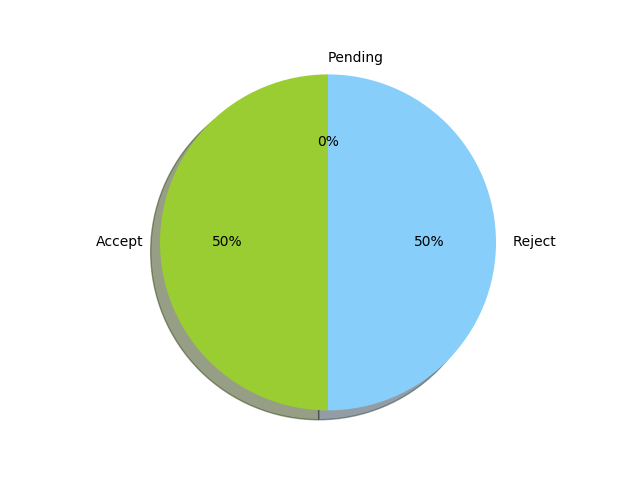
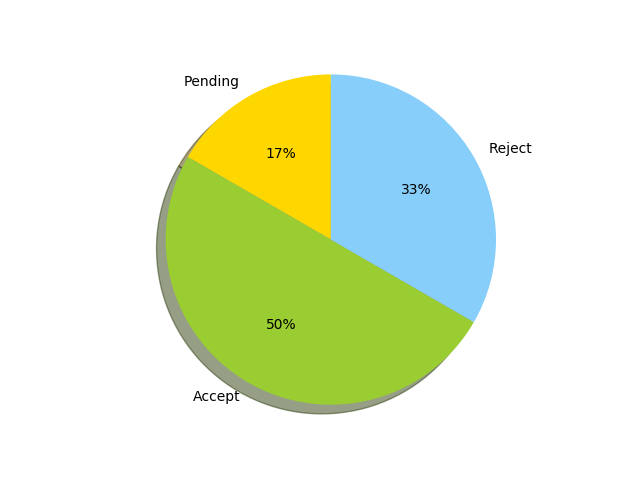
pandas added

diff --git a/src/templates/managers/view_manager_bills.html b/src/templates/managers/view_manager_bills.html
@@ -1,8 +1,8 @@
 {% extends "managers/manager_bar.html" %}
 {% block content %}
 
-    <h1>Bills <a class="btn btn-success add" href="{{ url_for('bills.add_bill') }}"><span class="glyphicon glyphicon-plus"></span> Add Bill</a>
-</h1>
+    <h3>Bills</h3>
+    <a class="pie-chart" href="{{ url }}">status<span class="glyphicon glyphicon-triangle-right"></span><img src="{{ url }}" alt="Image" width="250" height="150"></a>
     <label class="input-group-addon glyphicon glyphicon-sort" style="width: 50px;">
             <select class="selectpicker glyphicon glyphicon-sort" onchange="location = this.value;">
                 <option>Sort</option>
@@ -20,6 +20,8 @@
                 <option value="{{ url_for('bills.view_manager_bills', sort_type=sort_type, filter_type="reject") }}">{{ "Reject" }}</option>
             </select>
         </label>
+        <br><a class="btn btn-success" href="{{ url_for('bills.add_bill') }}"><span class="glyphicon glyphicon-plus"></span> Add Bill</a>
+
     <table class="table table-hover">
         <thead>
         <tr>

diff --git a/src/models/bills/views.py b/src/models/bills/views.py
@@ -13,6 +13,7 @@ from cloudinary.utils import cloudinary_url
 import src.decorators as bills_decorators
 import matplotlib.pyplot as plt
 
+
 bill_blueprint = Blueprint('bills', __name__)
 
 
@@ -32,12 +33,12 @@ def view_bills(sort_type, filter_type):
     else:
         sorted_bills = filter_bills
 
-    url = view_employee_bill_pie(employee['_id'])
+    url = view_bill_pie(employee['_id'])
     return render_template('employees/view_bills.html', bills=sorted_bills, sort_type=sort_type, filter_type=filter_type, url=url)
 
 
-def view_employee_bill_pie(employee_id):
-    bills = Bill.all_bills_for_employee(employee_id)
+def view_bill_pie(_id):
+    bills = Bill.all_bills_for_manager(_id)
 
     accept = reject = pending = 0
     for bill in bills:
@@ -47,22 +48,23 @@ def view_employee_bill_pie(employee_id):
             reject = reject + 1
         else:
             pending = pending + 1
-    labels = "Pending", "Accept", "Reject"
     sum = accept + pending + reject
-    sizes = [pending / sum, accept / sum, reject / sum]
-    colors = ['gold', 'yellowgreen', 'lightskyblue']
-    fig1, ax1 = plt.subplots()
-    ax1.pie(sizes, labels=labels, colors=colors, autopct='%.0f%%',
-            shadow=True, startangle=90, radius=0.5)
-    ax1.axis('equal')
-    plt.savefig('plot.png')
+    if sum is not 0:
+        labels = "Pending", "Accept", "Reject"
+        sizes = [pending / sum, accept / sum, reject / sum]
+        colors = ['gold', 'yellowgreen', 'lightskyblue']
+        fig1, ax1 = plt.subplots()
+        ax1.pie(sizes, labels=labels, colors=colors, autopct='%.0f%%',
+                shadow=True, startangle=90, radius=0.5)
+        ax1.axis('equal')
+        plt.savefig('plot.png')
 
-    upload_result = upload('plot.png')
-    url = upload_result['url']
-    thumbnail_url1, options = cloudinary_url(upload_result['public_id'], format="png", crop="fill", width=100,
-                                                     height=100)
-    # plt.show()
-    return url
+        upload_result = upload('plot.png')
+        url = upload_result['url']
+        thumbnail_url1, options = cloudinary_url(upload_result['public_id'], format="png", crop="fill", width=100,
+                                                         height=100)
+        # plt.show()
+        return url
 
 @bill_blueprint.route('/add', methods=['GET', 'POST'])
 @bills_decorators.requires_login
@@ -242,8 +244,12 @@ def view_manager_bills(sort_type, filter_type):
         sorted_bills = sorted(filter_bills, key=lambda k: k[sort_type])
     else:
         sorted_bills = filter_bills
+
+    url = view_bill_pie(manager['_id'])
+    if url is None:
+        url = '#'
     return render_template('managers/view_manager_bills.html', bills=sorted_bills, sort_type=sort_type,
-                           filter_type=filter_type)
+                           filter_type=filter_type, url=url)
 
 
 @bill_blueprint.route('/manager/accept/<string:bill_id>/<string:type>', methods=['GET', 'POST'])
